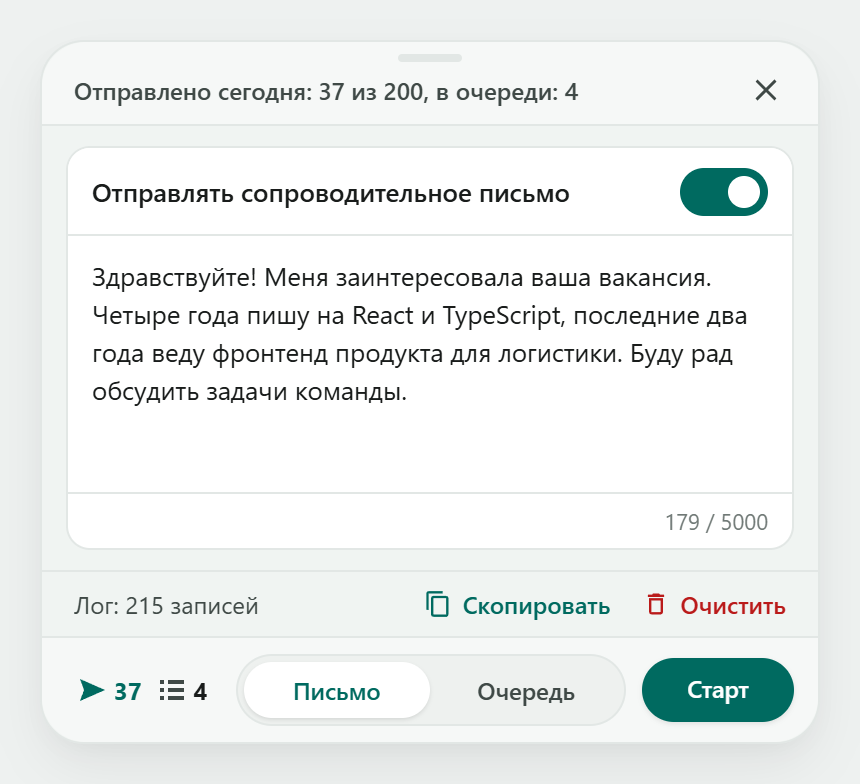
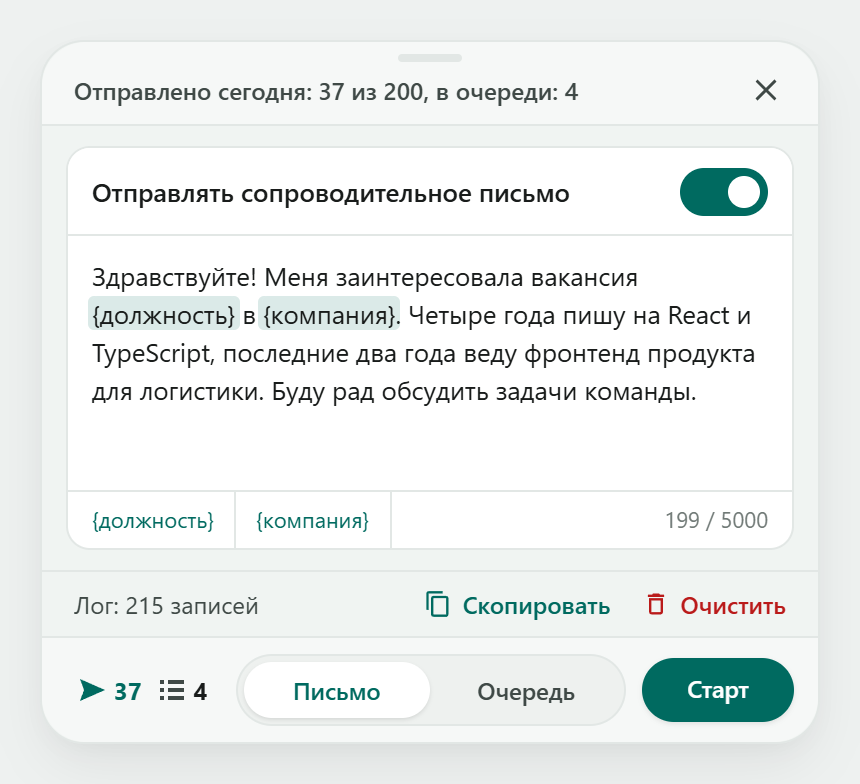
docs(letter): letter variables in README, release 0.2.16
- README: {должность} and {компания}, the fallback after a bar, the insert buttons with Ctrl+Z, highlights and the warning for an unknown name, "Не отправляется" with sending off
- README: the letter attached after a response sent without a letter field, letter_not_attached in the log
- The letter tab screenshot shows the variables and the insert buttons

Changed region(s): [[0.0907, 0.3673, 0.8767, 0.5204], [0.0907, 0.6122, 0.907, 0.6735], [0.6349, 0.3367, 0.8163, 0.3673]]

diff --git a/hh-apply-assistant.user.js b/hh-apply-assistant.user.js
@@ -1,7 +1,7 @@
 // ==UserScript==
 // @name         HH Apply Assistant
 // @namespace    https://github.com/tgeruzov/hh-apply-assistant
-// @version      0.2.15
+// @version      0.2.16
 // @author       Timur Geruzov
 // @description  Автоматические отклики на вакансии hh.ru из поиска. Вакансии с тестами и анкетами откладывает в очередь для ручного отклика
 // @license      GPL-3.0-only

diff --git a/README.md b/README.md
@@ -4,7 +4,7 @@
 
 **Userscript для автоматизации откликов на [hh.ru](https://hh.ru)**
 
-![Version](https://img.shields.io/badge/version-0.2.15-blue?style=flat-square)
+![Version](https://img.shields.io/badge/version-0.2.16-blue?style=flat-square)
 [![License: GPL-3.0-only](https://img.shields.io/badge/License-GPL--3.0--only-blue?style=flat-square)](./LICENSE)
 
 </div>
@@ -114,10 +114,20 @@ Chrome 137 и более ранние версии (версия видна на
 
 ### Сопроводительное письмо
 По умолчанию отправка письма выключена.  
-Если нужно отправлять: кликните по виджету, чтобы открыть окно настроек, включите тумблер и напишите текст. Текст можно править и при выключенном тумблере, он сохраняется сам (под полем мелькнёт `Сохранено`), лимит 5000 символов. Шаблон один на все вакансии, хранится в браузере и не сбрасывается при перезагрузке.
+Если нужно отправлять: кликните по виджету, чтобы открыть окно настроек, включите тумблер и напишите текст. Текст можно править и при выключенном тумблере, он сохраняется сам (под полем мелькнёт `Сохранено`), лимит 5000 символов. Пока тумблер выключен, текст показан бледным, а под полем написано `Не отправляется`. Шаблон один на все вакансии, хранится в браузере и не сбрасывается при перезагрузке.
+
+Если hh.ru отправил отклик сразу, без поля для письма (так бывает, например, в окне выбора резюме), скрипт прикладывает письмо кнопкой `Приложить сопроводительное письмо`, которая появляется после отклика. Если такой кнопки нет, отклик остаётся без письма, а в логе появляется запись `letter_not_attached` с тем, что hh показал на странице.
+
+В текст можно вставить название вакансии и компании, тогда письмо будет выглядеть не как рассылка:
+* `{должность}` - название вакансии без города в конце: `Специалист чат-поддержки` вместо `Специалист чат-поддержки, г.Ставрополь`
+* `{компания}` - название работодателя без `ООО`, `АО`, `ИП` и других форм и без подразделения: `HeadHunter` вместо `ООО HeadHunter::Analytics/Data Science`, `Сбер` вместо `Сбер. Начало карьеры`
+
+Кнопки с этими словами под полем вставляют их туда, где стоит курсор, вставку отменяет <kbd>Ctrl</kbd>+<kbd>Z</kbd>, как обычный ввод. В тексте письма переменные подсвечены, а слово в скобках с опечаткой подсвечено красным. Если навести на кнопку, подсказка покажет, что подставится на последней открытой вакансии. Пример: `Здравствуйте! Меня заинтересовала вакансия {должность} в {компания}.`
+
+Если на странице вакансии нужного названия нет, отклик уйдёт без письма: письмо с пустым местом выглядит хуже, чем никакое (в логе будет запись `letter_skipped`). Чтобы письмо уходило всегда, допишите запасной текст после черты: `{компания|вашей компании}`. Слова в фигурных скобках, которых скрипт не знает (например, `{компанiя}` с опечаткой), уходят в письме как есть, а под полем появляется предупреждение.
 
 <p align="center">
-  <img src="docs/images/panel-letter.png" width="430" alt="Вкладка Письмо: тумблер отправки и текст письма со счётчиком символов">
+  <img src="docs/images/panel-letter.png" width="430" alt="Вкладка Письмо: тумблер отправки, текст письма с переменными {должность} и {компания}, кнопки для их вставки и счётчик символов">
 </p>
 
 ### Какое резюме отправляется
